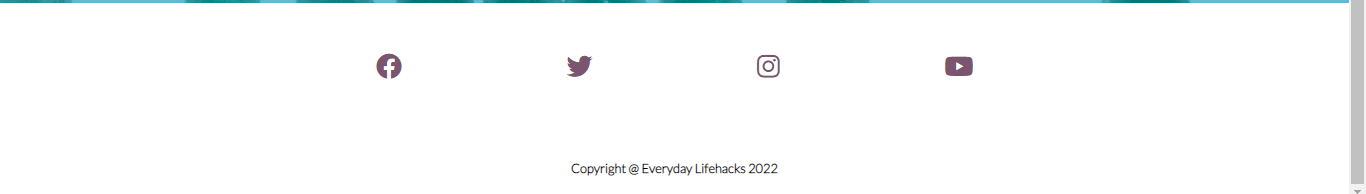
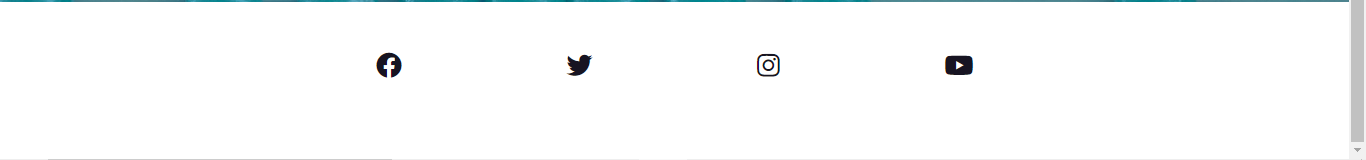
Add more to browser testing in readme file

diff --git a/assets/css/style.css b/assets/css/style.css
@@ -531,6 +531,15 @@ input[type=button], input[type=submit], input[type=reset] {
         line-height: 300px;
         margin-top: 75px;
     }
+
+    #thanks {
+        height: 600px;
+        padding-bottom: 100px;
+    }
+    
+    #thanks hr {
+        visibility: hidden;
+    }
     
 }
 
@@ -573,6 +582,30 @@ input[type=button], input[type=submit], input[type=reset] {
 
     footer {
         margin-top: 50px;
+    }
+
+    #thanks {
+        height: 600px;
+        padding-bottom: 100px;
+    }
+    
+    #thanks hr {
+        visibility: hidden;
+    }
+
+    #thanks h2 {
+        font-size: 3rem;
+        color: #0089BA;
+    }
+    
+    #thanks h3 {
+        font-size: 2rem;
+        padding-top: 20px;
+    }
+
+    #thanks button {
+        width: 80%;
+        font-size: 100%;
     }
 }
 

diff --git a/README.md b/README.md
@@ -84,7 +84,7 @@ This section of the home page allows users to jump straight to the submit a hack
 
 ### Footer
 
-The idea for the footer came from the love running project. I liked the simple but effective layout of the social media icons. I changed the icon colour to the secondary website colour to match the theme and added a little bit of copyright text below. Lifehacks are often shown in videos and pictures so social media would be a big part of this website so I thought the simple footer with the social icons fit perfectly.
+The idea for the footer came from the love running project. I liked the simple but effective layout of the social media icons. I changed the icon colour to dark navy with a hover colour of blue to match the theme. Lifehacks are often shown in videos and pictures so social media would be a big part of this website so I thought the simple footer with the social icons fit perfectly.
 
 ![screenshot of page footer with social media icons](documentation/footer-ss.png)
 
@@ -142,6 +142,10 @@ I tested each page of my website's code in the HTML Validator and the results ar
 2. When using YouTube embedded videos it was greatly effecting the loading speed of my website. This was a big problem as it was one of my main sources of content. To fix this I used a third party website which takes the YouTube link and converts it and provides you with their own link which embeds the YouTube video to only load when the user clicks the play button. Since I implemented this, my site loading speed is a lot faster. 
 
 3. When trying to submit my form I kept getting a 405 not allowed error. My method was set to post and I tried to put the action as form.php so the responses would be recorded there. This didn't work and I was stuck on this section for quite a while. I searched on slack and found someone else had previously had this problem, so the solution was to change it to a get method and put the action as thanks.html. This meant I could remove the link I had put on my submit button to bring me to the thank you page.
+
+## Unsolved bugs
+
+1. Although I got my submit form to work and display my thank you message using the get method, this wouldn't be very practicle for the type of information I need to collect using my form. The post method I think would be far better but I couldn't figure this out. When I looked online it says my sction needs to point to a php file in order to send the data to this file, but when I did this it returned an error. I'm not sure how I would get this to work so I switched to the get method as it worked and did display the form info in the url on the thank you page. In a future project I would like to work on correcting this as my knowledge on the topic improves.
 
 ## Lighthouse
 
@@ -226,6 +230,11 @@ I tested my website on different browsers to make sure it was responsive and wor
 | Hacks page links and styling | Hacks page correctly links to intended pages and styling looks as it is suppose to | Hacks page correctly links to intended pages and styling looks as it is suppose to | Hacks page correctly links to intended pages. Font weight looks a little different but this could be just how the browser displays it, all other styling is consistent |
 | Hacks page responsiveness | Hacks page fully responsive. Divs and text change to correct size on different devices  | Hacks page fully responsive. Divs and text change to correct size on different devices | Hacks page fully responsive. Divs and text change to correct size on different devices |
 | Lifehack article pages | All articles are fully responsive. Images, videos and text change size to match screen size. When testing I noticed the padding at the top of each article was a bit big so I will change this so articles appear a small bit closer together  | All articles are fully responsive. Images, videos and text change size to match screen size | All articles are fully responsive. Images, videos and text change size to match screen size |
+| Submit a hack form | The form returned a 405 error when trying to submit, I changed the method and action and now form works perfectly. This change is mentioned in solved bugs  | The form returned a 405 error when trying to submit, I changed the method and action and now form works perfectly. This change is mentioned in solved bugs | The form returned a 405 error when trying to submit, I changed the method and action and now form works perfectly. This change is mentioned in solved bugs |
+| Submit a hack responsiveness | The form is fully responsive to all screen types and looks as intended | The form is fully responsive to all screen types and looks as intended | The form is fully responsive to all screen types and looks as intended |
+| thank you page responsiveness | The thank you page was not fully responsive and the content affected the footer on smaller devices. This has been changed using media queries and looks as intended now | The thank you page was not fully responsive and the content affected the footer on smaller devices. This has been changed using media queries and looks as intended now | The thank you page was not fully responsive and the content affected the footer on smaller devices. This has been changed using media queries and looks as intended now |
+| footer | All social media links work as intended and open page in new tab. The icons also change colour when hovered on | All social media links work as intended and open page in new tab. The icons also change colour when hovered on | All social media links work as intended and open page in new tab. The icons also change colour when hovered on |
+
 
 # Deployment
 
